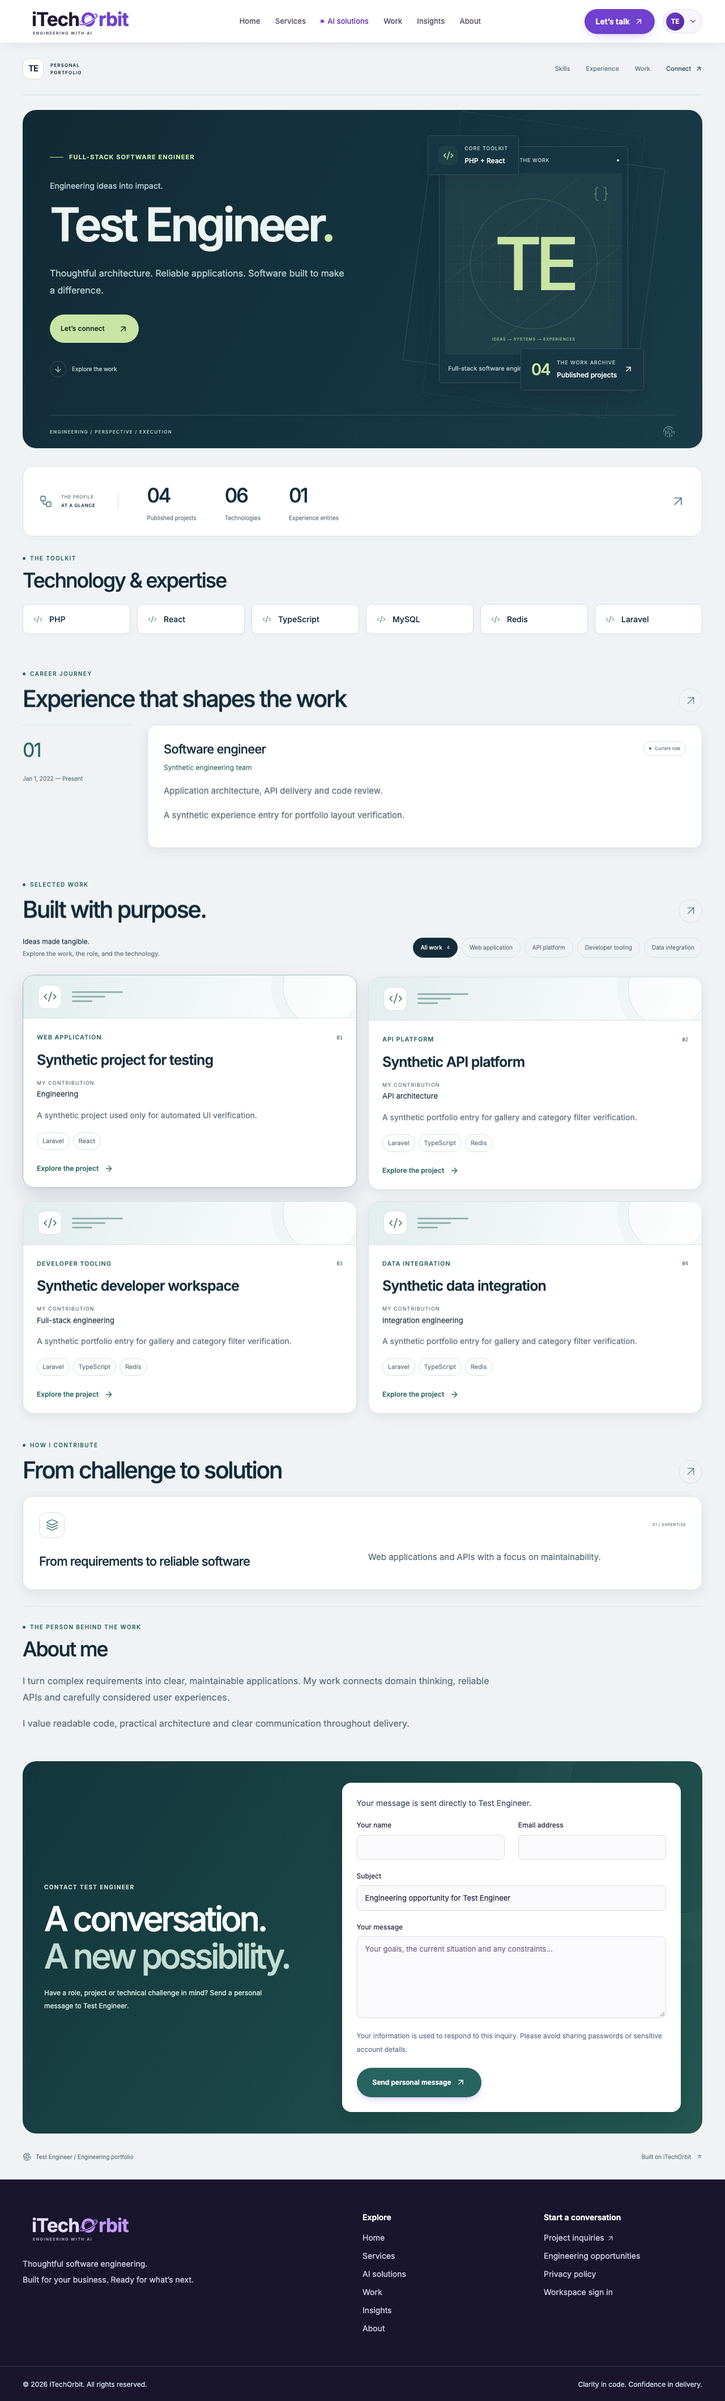
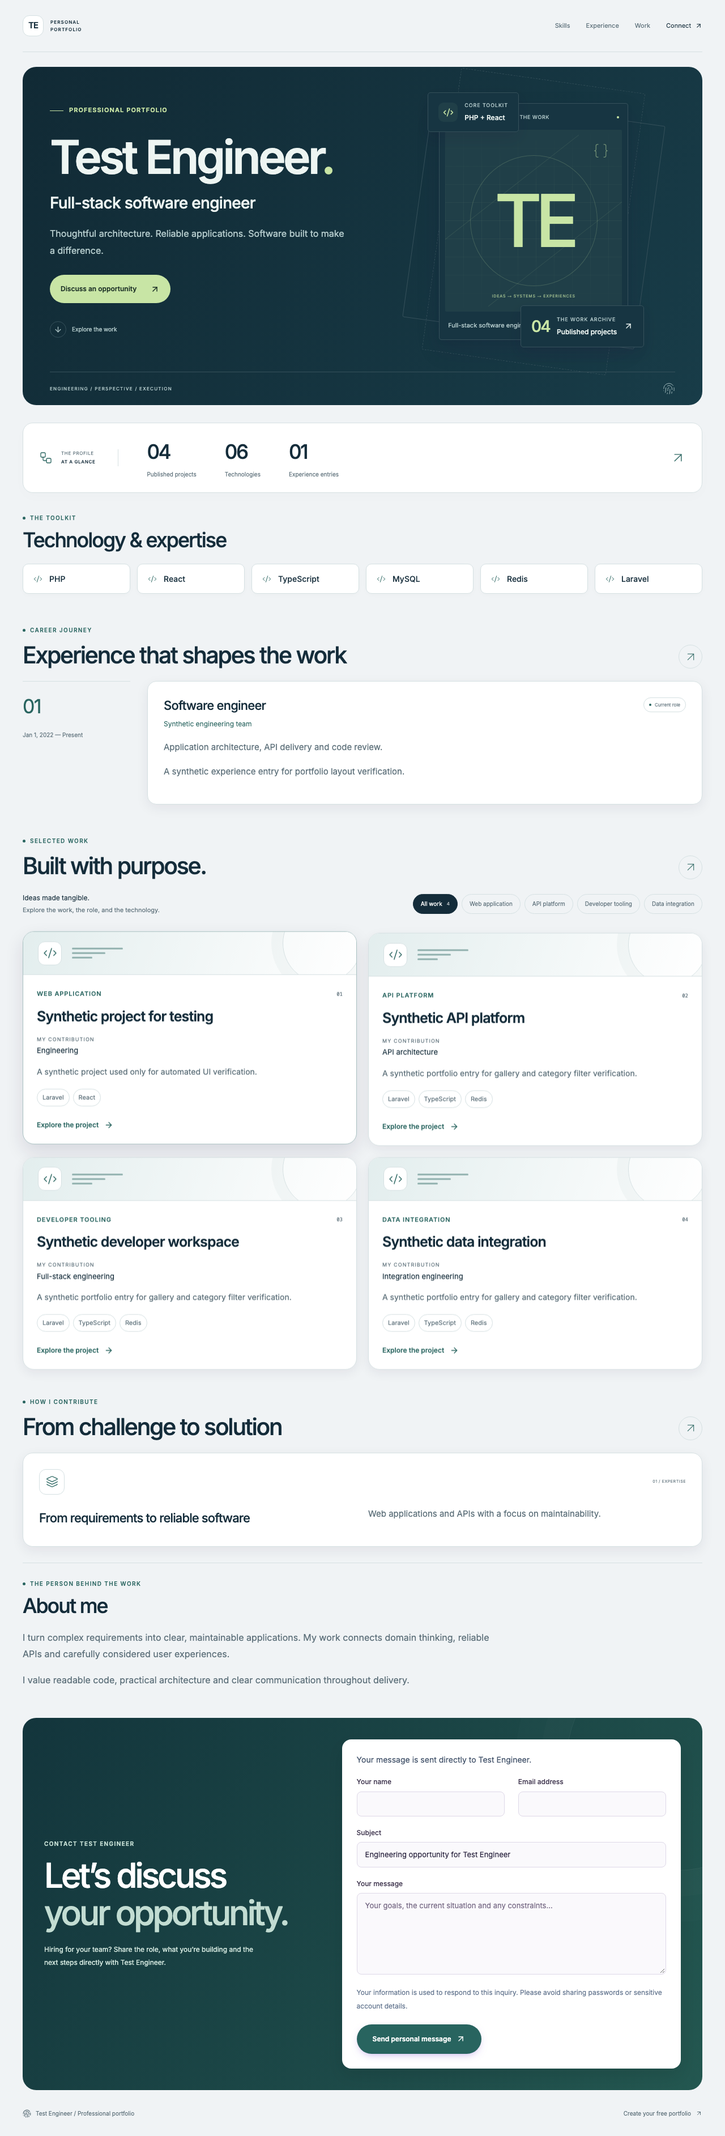
Focus portfolios on candidates and align six-column expertise grids

Changed region(s): [[0.0, 0.1862, 1.0, 1.0], [0.0312, 0.0, 0.9688, 0.1552]]

diff --git a/resources/js/components/portfolio/PortfolioView.tsx b/resources/js/components/portfolio/PortfolioView.tsx
@@ -18,7 +18,7 @@ function Section({ id, title, label, children, className = '' }: { id: string; t
   return <section className={`pf-section ${className}`} id={id}><div className="pf-section-heading"><div><p className="pf-kicker"><span />{label}</p><h2>{title}</h2></div><span className="pf-section-glyph" aria-hidden="true"><ArrowUpRight size={25} strokeWidth={1} /></span></div>{children}</section>;
 }
 function Actions({ profile }: { profile: Profile }) {
-  return <div className="pf-actions"><a href="#connect" className="pf-button"><span>Let’s connect</span><ArrowUpRight size={17} /></a>{profile.cv && <a href={profile.cv} download className="pf-button pf-button-secondary"><span>Download CV</span><Download size={16} /></a>}</div>;
+  return <div className="pf-actions">{profile.cv && <a href={profile.cv} download className="pf-button"><span>Download CV</span><Download size={16} /></a>}<a href="#connect" className={`pf-button ${profile.cv ? 'pf-button-secondary' : ''}`}><span>Discuss an opportunity</span><ArrowUpRight size={17} /></a></div>;
 }
 function Socials({ profile }: { profile: Profile }) {
   return profile.socials.length ? <div className="pf-socials">{profile.socials.map(social => <a key={social.url} href={social.url} target="_blank" rel="noopener noreferrer">{social.name}<MoveUpRight size={13} /></a>)}</div> : null;
@@ -40,7 +40,7 @@ function Identity({ profile, projects, technical = false }: { profile: Profile; 
   </div>;
 }
 function Hero({ profile, projects, variant, children }: { profile: Profile; projects: Project[]; variant: PortfolioTemplate; children?: ReactNode }) {
-  return <header className="pf-hero"><div className="pf-hero-copy"><div className="pf-hero-label"><span className="pf-label-line" /><span>{profile.designation || 'Engineering portfolio'}</span></div><p className="pf-hero-prelude">{variant === 'blueprint' ? 'Human thinking. System-level craft.' : variant === 'editorial' ? 'A different perspective on engineering.' : variant === 'executive' ? 'Engineering ideas into impact.' : variant === 'spotlight' ? 'The craft behind the experience.' : 'A little curiosity. A lot of craft.'}</p><h1>{profile.name}<span className="pf-name-dot">.</span></h1><Rich html={profile.objective} className="pf-objective" /><Actions profile={profile} /><Socials profile={profile} />{children}</div><Identity profile={profile} projects={projects} technical={variant === 'blueprint'} /></header>;
+  return <header className="pf-hero"><div className="pf-hero-copy"><div className="pf-hero-label"><span className="pf-label-line" /><span>Professional portfolio</span></div><h1>{profile.name}<span className="pf-name-dot">.</span></h1>{profile.designation && <p className="pf-candidate-role">{profile.designation}</p>}<Rich html={profile.objective} className="pf-objective" /><Actions profile={profile} /><Socials profile={profile} />{children}</div><Identity profile={profile} projects={projects} technical={variant === 'blueprint'} /></header>;
 }
 function Skills({ profile }: { profile: Profile }) {
   return profile.skills.length ? <Section id="expertise" label="The toolkit" title="Technology & expertise" className="pf-profile-row pf-expertise-row"><div className="pf-profile-content"><div className="pf-skills">{profile.skills.map(skill => <span key={skill}><Code2 size={16} strokeWidth={1.5} aria-hidden="true" />{skill}</span>)}</div></div></Section> : null;
@@ -72,7 +72,7 @@ function Facts({ profile, projects }: { profile: Profile; projects: Project[] })
   return facts.length ? <div className="pf-facts" aria-label="Portfolio overview"><div className="pf-facts-label"><Workflow size={24} strokeWidth={1.3} /><span>THE PROFILE<br /><strong>AT A GLANCE</strong></span></div>{facts.map(([count, label]) => <div key={label}><strong>{String(count).padStart(2, '0')}</strong><span>{label}</span></div>)}<ArrowUpRight className="pf-facts-arrow" size={28} strokeWidth={1.2} aria-hidden="true" /></div> : null;
 }
 function Contact({ profile, preview }: { profile: Profile; preview: boolean }) {
-  return <section className="pf-contact pf-personal-contact" id="connect"><div className="pf-contact-copy"><p className="pf-kicker">Contact {profile.name}</p><h2>A conversation.<br /><span>A new possibility.</span></h2><p>Have a role, project or technical challenge in mind? Send a personal message to {profile.name}.</p><Socials profile={profile} />{preview && <p>Form preview — messages cannot be sent from this preview.</p>}</div><div className="pf-contact-form">{profile.portfolioId ? <ContactForm recipient={{ name: profile.name, portfolio_id: profile.portfolioId }} preview={preview} /> : <p>Contact details are not available for this profile.</p>}</div></section>;
+  return <section className="pf-contact pf-personal-contact" id="connect"><div className="pf-contact-copy"><p className="pf-kicker">Contact {profile.name}</p><h2>Let’s discuss<br /><span>your opportunity.</span></h2><p>Hiring for your team? Share the role, what you’re building and the next steps directly with {profile.name}.</p><Socials profile={profile} />{preview && <p>Form preview — messages cannot be sent from this preview.</p>}</div><div className="pf-contact-form">{profile.portfolioId ? <ContactForm recipient={{ name: profile.name, portfolio_id: profile.portfolioId }} preview={preview} /> : <p>Contact details are not available for this profile.</p>}</div></section>;
 }
 export function PortfolioView({ profile, projects, template, preview = false }: PortfolioData & { preview?: boolean }) {
   const style = names[template] ? template : 'studio';
@@ -98,7 +98,7 @@ export function PortfolioView({ profile, projects, template, preview = false }: 
         : hero}
       {(style === 'studio' || style === 'executive') && <Facts profile={profile} projects={projects} />}
       <div className="pf-profile-sections">{skills}{experience}{work}{services}{about}</div>
-      <Contact profile={profile} preview={preview} /><footer className="pf-signature"><span><Fingerprint size={15} />{profile.name} / Engineering portfolio</span><a href="/">Built on iTechOrbit <ArrowUpRight size={12} /></a></footer>
+      <Contact profile={profile} preview={preview} /><footer className="pf-signature"><span><Fingerprint size={15} />{profile.name} / Professional portfolio</span><a href="/register">Create your free portfolio <ArrowUpRight size={12} /></a></footer>
     </div>
   </div>;
 }

diff --git a/resources/js/pages/Admin/PortfolioTemplates.tsx b/resources/js/pages/Admin/PortfolioTemplates.tsx
@@ -10,12 +10,20 @@ type Template = { id: PortfolioTemplate; name: string; description: string };
 export default function PortfolioTemplates({ profile, projects, template, templates, navigation, publishedUrl, storageReady }: PortfolioData & { templates: Template[]; navigation: Navigation; publishedUrl: string | null; storageReady: boolean }) {
   const { flash } = usePage<Shared>().props;
   const form = useForm({ template }); const [mobile, setMobile] = useState(false);
+  const preparation = [
+    { ready: !!profile.designation, title: 'Clear professional role', tip: 'Use the job title you want recruiters to understand at a glance.' },
+    { ready: !!profile.objective, title: 'Focused introduction', tip: 'Explain your strengths and the kind of work you want to do.' },
+    { ready: profile.skills.length > 0, title: 'Relevant skills', tip: 'List technologies you can discuss confidently in an interview.' },
+    { ready: projects.length > 0, title: 'Evidence of your work', tip: 'Add projects with your contribution, screenshots and factual outcomes. Personal projects count too.' },
+    { ready: !!profile.cv, title: 'Public CV', tip: 'Upload a current CV and enable its public visibility if you want recruiters to download it.' },
+  ];
   const selected = templates.find(item => item.id === form.data.template)!;
   return <AdminLayout title="Portfolio templates" navigation={navigation}>
-    <div className="template-studio-heading"><div><p className="workspace-eyebrow"><Palette size={15} /> YOUR PROFESSIONAL PRESENCE</p><h1>Make your work stand out.</h1><p>Five distinct ways to tell your engineering story. Preview with your own content, then choose your look.</p></div>{publishedUrl && <Button asChild variant="outline"><a href={publishedUrl} target="_blank" rel="noopener noreferrer">View public portfolio <ArrowUpRight size={16} /></a></Button>}</div>
+    <div className="template-studio-heading"><div><p className="workspace-eyebrow"><Palette size={15} /> YOUR PROFESSIONAL PRESENCE</p><h1>Make your work stand out.</h1><p>Your free professional portfolio, built around what hiring teams need to see. Choose a design, then let your experience and work tell the story.</p></div>{publishedUrl && <Button asChild variant="outline"><a href={publishedUrl} target="_blank" rel="noopener noreferrer">View public portfolio <ArrowUpRight size={16} /></a></Button>}</div>
     {!storageReady && <Notice error message="Preview is available, but saving requires the portfolio database migration. Please contact the site administrator." />}
     {flash.success && <Notice message={flash.success} />}
     {!publishedUrl && <Notice message="Your portfolio is currently unpublished. You can preview and save a design here; this does not publish your profile." />}
+    <details className="portfolio-preparation"><summary>Prepare your portfolio for hiring teams <span>{preparation.filter(item => item.ready).length} of {preparation.length} essentials present</span></summary><p>These checks confirm content is present, not its quality. Review every detail before sharing your link.</p><ul>{preparation.map(item => <li key={item.title}><span className={item.ready ? 'is-ready' : ''}>{item.ready ? <Check size={15} aria-hidden="true" /> : <span aria-hidden="true">+</span>}</span><div><strong>{item.title}</strong><p>{item.tip}</p><small>{item.ready ? 'Present in your preview' : 'Add in your portfolio modules'}</small></div></li>)}</ul></details>
     <form onSubmit={event => { event.preventDefault(); form.patch('/workspace/portfolio-templates', { preserveScroll: true }); }}>
       <fieldset className="template-choices" disabled={form.processing}><legend className="sr-only">Choose a portfolio template</legend>{templates.map((item, index) => <label key={item.id} className={`template-choice ${form.data.template === item.id ? 'is-selected' : ''}`}><input type="radio" name="template" value={item.id} checked={form.data.template === item.id} onChange={() => form.setData('template', item.id)} /><span className={`template-miniature miniature-${item.id}`} aria-hidden="true"><span className="mini-topline" /><span className="mini-avatar" /><span className="mini-title" /><span className="mini-subtitle" /><span className="mini-button" /><span className="mini-grid"><i /><i /><i /></span></span><span className="template-choice-title"><strong>{item.name}</strong><span>{template === item.id ? 'Current' : `0${index + 1}`}</span>{form.data.template === item.id && <Check size={15} />}</span><span className="template-choice-description">{item.description}</span></label>)}</fieldset>
       {form.errors.template && <Notice error message={form.errors.template} />}

diff --git a/tests/browser/website.spec.ts b/tests/browser/website.spec.ts
@@ -301,6 +301,10 @@ test('portfolio template studio previews five layouts and persists the public se
     await page.goto('/portfolios/TESTPROFILE');
     await expect(page.locator('.portfolio-view')).toHaveAttribute('data-template', name.toLowerCase());
     await expect(page.getByRole('heading', { level: 1 })).toHaveText(/Test Engineer/);
+    await expect(page.getByRole('navigation', { name: 'Main navigation' })).toHaveCount(0);
+    await expect(page.locator('.pf-candidate-role')).toHaveText('Full-stack software engineer');
+    await expect(page.getByRole('link', { name: 'Discuss an opportunity', exact: true })).toHaveAttribute('href', '#connect');
+    await expect(page.getByRole('link', { name: 'Create your free portfolio' })).toHaveAttribute('href', '/register');
     await expect(page.getByRole('heading', { name: 'Built with purpose.' })).toBeVisible();
     const profileRows = await page.locator('.pf-profile-sections').evaluate(container => {
       const box = container.getBoundingClientRect();
@@ -318,13 +322,15 @@ test('portfolio template studio previews five layouts and persists the public se
     const alignmentSizes = [originalViewport, ...(!isMobile ? [{ width: 768, height: 900 }, { width: 1440, height: 900 }] : [])];
     for (const viewport of alignmentSizes) {
       await page.setViewportSize(viewport);
+      const skillColumns = await page.locator('.pf-skills').evaluate(element => getComputedStyle(element).gridTemplateColumns.split(' ').length);
+      expect(skillColumns).toBe(viewport.width <= 680 ? 2 : viewport.width <= 1023 ? 3 : 6);
       const edges = await page.evaluate(() => {
         const contentEdges = (selector: string) => {
           const element = document.querySelector<HTMLElement>(selector)!;
           const box = element.getBoundingClientRect(); const css = getComputedStyle(element);
           return [box.left + parseFloat(css.paddingLeft), box.right - parseFloat(css.paddingRight)];
         };
-        return { header: contentEdges('.header-inner'), portfolio: contentEdges('.pf-local-header'), footer: contentEdges('.site-footer > .shell') };
+        return { header: contentEdges('.pf-local-header'), portfolio: contentEdges('.pf-profile-sections'), footer: contentEdges('.pf-signature') };
       });
       for (const edge of [0, 1]) {
         expect(Math.abs(edges.portfolio[edge] - edges.header[edge])).toBeLessThan(1);
@@ -387,7 +393,7 @@ test('portfolio template studio previews five layouts and persists the public se
     expect(html).toContain(`data-template="${name.toLowerCase()}"`); expect(html).toContain('Synthetic project for testing');
     await page.evaluate(() => { (document.activeElement as HTMLElement)?.blur(); window.scrollTo({ top: 0, behavior: 'instant' }); });
     await expect.poll(() => page.evaluate(() => window.scrollY)).toBe(0);
-    await expect(page.getByRole('link', { name: 'iTechOrbit home', exact: true })).toBeInViewport();
+    await expect(page.getByRole('link', { name: 'Test Engineer portfolio top', exact: true })).toBeInViewport();
     await page.screenshot({ path: testInfo.outputPath(`portfolio-${name.toLowerCase()}.png`), fullPage: true });
     await page.goto(`/portfolios/SPARSE-${name.toUpperCase()}`);
     await expect(page.getByRole('heading', { level: 1 })).toContainText('Minimal Engineer');

diff --git a/resources/css/portfolio.css b/resources/css/portfolio.css
@@ -6,7 +6,7 @@
   overflow:clip; isolation:isolate;
 }
 .portfolio-view * { box-sizing:border-box; }
-/* The shared .shell aligns public portfolios with the site header and footer. */
+/* One shared shell aligns the candidate header, content and footer. */
 .portfolio-view a { text-decoration:none; }
 .portfolio-view :is(a,button):focus-visible { outline:3px solid var(--pf-accent); outline-offset:5px; border-radius:5px; }
 .pf-local-header { display:flex; justify-content:space-between; align-items:center; gap:24px; padding:27px 0; border-bottom:1px solid var(--pf-line); }
@@ -353,8 +353,8 @@
 .pf-profile-row .pf-section-glyph { display:none; }
 .pf-profile-content { min-width:0; padding:0; border:0; }
 .pf-profile-content .pf-rich:last-child>:last-child { margin-bottom:0; }
-.pf-profile-row .pf-skills { display:flex; justify-content:flex-start; flex-wrap:wrap; gap:12px; }
-.pf-profile-row .pf-skills>span,.pf-profile-row .pf-skills>span:last-child:nth-child(odd) { display:flex; align-items:center; flex:1 1 135px; min-width:0; width:auto; max-width:210px; grid-column:auto; padding:15px 18px; gap:12px; font-size:14px; font-weight:500; background:var(--pf-card); color:var(--pf-ink); border:1px solid var(--pf-line); border-radius:10px; box-shadow:0 3px 10px #21143a06; }
+.pf-profile-row .pf-skills { display:grid; grid-template-columns:repeat(6,minmax(0,1fr)); gap:12px; }
+.pf-profile-row .pf-skills>span,.pf-profile-row .pf-skills>span:last-child:nth-child(odd) { display:flex; align-items:center; min-width:0; width:100%; max-width:none; overflow-wrap:anywhere; grid-column:auto; padding:15px 18px; gap:12px; font-size:14px; font-weight:500; background:var(--pf-card); color:var(--pf-ink); border:1px solid var(--pf-line); border-radius:10px; box-shadow:0 3px 10px #21143a06; }
 .pf-profile-row .pf-skills svg { color:var(--pf-accent); margin:0; flex-shrink:0; }
 .pf-profile-row .pf-skills>span:hover { box-shadow:0 7px 18px #21143a12; }
 .pf-about-row .pf-profile-content { max-width:85ch; }
@@ -366,7 +366,12 @@
   .pf-profile-row { padding:23px 0; }
   .pf-profile-row .pf-section-heading h2 { font-size:29px; }
   .pf-profile-row .pf-skills { gap:10px; }
-  .pf-profile-row .pf-skills>span,.pf-profile-row .pf-skills>span:last-child:nth-child(odd) { flex-basis:125px; max-width:calc(50% - 5px); padding:13px 14px; font-size:13px; gap:10px; }
+  .pf-profile-row .pf-skills>span,.pf-profile-row .pf-skills>span:last-child:nth-child(odd) { max-width:none; padding:13px 14px; font-size:13px; gap:10px; }
   .pf-profile-row .pf-skills>span:only-child { max-width:100%; }
   .pf-about-row .pf-rich { font-size:14px; }
 }
+
+/* Candidate identity leads; the employer can scan the actual role immediately. */
+.pf-candidate-role { margin:-10px 0 20px; color:var(--pf-ink); font-size:clamp(20px,2.4cqw,28px); font-weight:500; line-height:1.4; letter-spacing:-.025em; overflow-wrap:anywhere; }
+@container(max-width:1023px) { .pf-profile-row .pf-skills { grid-template-columns:repeat(3,minmax(0,1fr)); } }
+@container(max-width:680px) { .pf-profile-row .pf-skills { grid-template-columns:repeat(2,minmax(0,1fr)); } .pf-candidate-role { font-size:21px; } }

diff --git a/resources/css/admin.css b/resources/css/admin.css
@@ -286,3 +286,15 @@
 .miniature-spotlight .mini-title { left:12px; top:37px; width:44%; height:11px; }
 .miniature-spotlight .mini-subtitle { left:12px; top:56px; width:36%; }
 .miniature-spotlight .mini-button { left:12px; top:72px; width:24%; height:10px; }
+
+.portfolio-preparation { margin:0 0 24px; border:1px solid #e5dfed; border-radius:14px; background:#fff; padding:18px 20px; }
+.portfolio-preparation summary { cursor:pointer; font-size:14px; font-weight:600; color:#29213c; }
+.portfolio-preparation summary>span { display:inline-block; margin-left:12px; font-size:11px; font-weight:400; color:#655875; }
+.portfolio-preparation>p { font-size:12px; line-height:1.7; margin:15px 0; color:#655875; }
+.portfolio-preparation ul { display:grid; grid-template-columns:repeat(auto-fit,minmax(210px,1fr)); gap:20px; margin:20px 0 4px; }
+.portfolio-preparation li { display:flex; gap:10px; }
+.portfolio-preparation li>span { display:grid; place-items:center; width:24px; height:24px; flex-shrink:0; border-radius:50%; background:#f3eef9; color:#72548c; }
+.portfolio-preparation li>span.is-ready { background:#e5f4ec; color:#28684b; }
+.portfolio-preparation strong { font-size:12px; color:#29213c; }
+.portfolio-preparation li p { font-size:12px; color:#655875; line-height:1.7; margin:6px 0; }
+.portfolio-preparation small { font-size:10px; color:#655875; }

diff --git a/resources/js/pages/Portfolio.tsx b/resources/js/pages/Portfolio.tsx
@@ -1,7 +1,6 @@
-import PublicLayout from '@/layouts/PublicLayout';
 import { Seo } from '@/components/Seo';
 import { PortfolioView, type PortfolioData } from '@/components/portfolio/PortfolioView';
 import type { Seo as SeoType } from '@/lib/types';
 export default function Portfolio({ seo, ...portfolio }: PortfolioData & { seo: SeoType }) {
-  return <PublicLayout><Seo seo={seo} /><PortfolioView {...portfolio} /></PublicLayout>;
+  return <><Seo seo={seo} /><a className="skip-link" href="#main">Skip to portfolio</a><main id="main"><PortfolioView {...portfolio} /></main></>;
 }

diff --git a/docs/COMPLETION_REPORT.md b/docs/COMPLETION_REPORT.md
@@ -195,3 +195,9 @@ Moved About and Technology & Expertise into separate full-width rows across all 
 Standardized all five portfolio templates to Introduction → Skills → Experience → Projects → Services → About → Contact, with matching local navigation and omission of empty sections. Replaced the rejected boxed rows with open sections, compact skill tiles and natural reading width. Removed decorative indices/arrow affordances from non-clickable skills. Preserved existing personal content; no hobbies were invented or schema fields added. Verified types, lint, Pint and client/SSR builds; browser coverage now asserts the final order as well as alignment/contact/upload behavior.
 
 Final career-order verification: 6 desktop/mobile browser checks passed. Updated portfolio captures reviewed and saved.
+
+
+### Recruiter-focused portfolio refinement — 2026-10-16
+Candidate pages now have standalone personal navigation, a prominent real role and name, a public-CV-first action where available, direct hiring inquiries and a registration link for the free portfolio service. The existing five themes retain their character, project screenshots and career section order. Expertise tiles use six equal desktop columns, three tablet columns and two mobile columns. The private template chooser adds an expandable preparation checklist without claiming to rate content quality or guarantee interviews.
+
+Validation: 48 PHP tests / 1,089 assertions, 3 frontend tests, TypeScript, ESLint, Pint, client/SSR builds and all 6 affected desktop/mobile browser scenarios pass. Updated synthetic captures are under docs/assets. Existing publication approval remains in place; this is a presentation and guidance change, not a new automatic publication workflow. No database or environment changes, real messages, deployment or performance measurements were made. Deploy rebuilt assets and restart SSR through the existing approved release procedure; rollback by reverting this change and rebuilding assets.

diff --git a/docs/IMPLEMENTATION_CHECKLIST.md b/docs/IMPLEMENTATION_CHECKLIST.md
@@ -239,3 +239,13 @@ Status legend: [x] implemented/verified, [ ] pending. Updated continuously; inco
 - [x] Verify the final section order, Skills-first position, spacing, responsive alignment, all template previews and contact/upload behavior: all 6 affected browser scenarios pass. Types/lint, Pint and client/SSR builds pass; review and refresh captures.
 
 - [x] Standardize the career section order in every template: introduction → skills → experience → projects → services → personal/About → contact. Align local navigation with this order.
+
+
+## Recruiter-focused portfolios and fixed expertise grid — 2026-10-16
+- [x] Use standalone candidate pages with personal navigation, matching content/footer alignment and an accessible skip link; remove corporate navigation and agency sales footer from portfolios.
+- [x] Lead with the actual name, professional role and objective; prioritize a public CV when available and direct opportunity inquiries to the candidate.
+- [x] Retain five visual themes, real project screenshots and career section order; introduce no claims about employment availability or interview outcomes.
+- [x] Set expertise to six equal columns on desktop, three on tablet and two on mobile, including private previews.
+- [x] Add private content-preparation guidance and a free portfolio registration link; preserve existing publication permissions and CV privacy.
+- [x] PHP 48 tests / 1,089 assertions, 3 frontend tests, types, lint and client/SSR builds pass.
+- [x] All 6 affected desktop/mobile browser flows pass across five templates, including responsive grid counts, standalone alignment, direct contact and screenshot uploads. Review and refresh portfolio captures; Pint passes.
